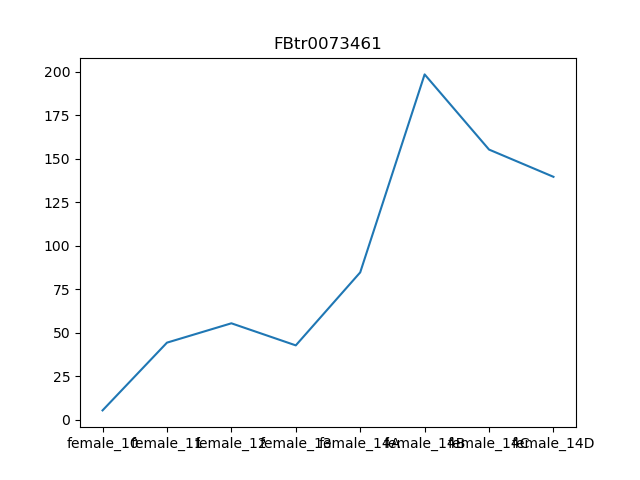
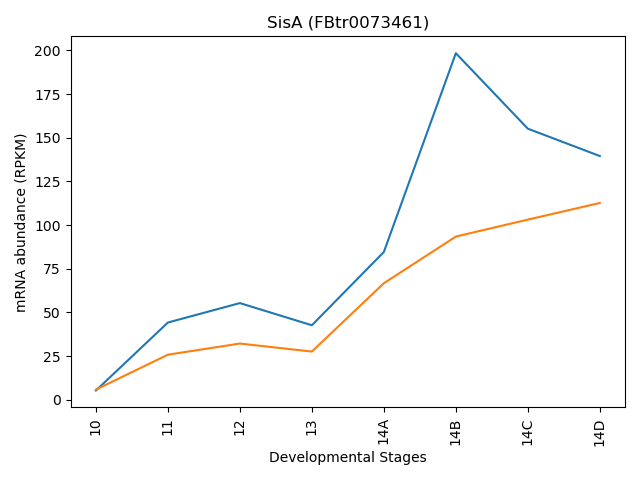
Add answer for exercise 1, step 2

diff --git a/day2-homework/plot-sisA.py b/day2-homework/plot-sisA.py
@@ -19,6 +19,17 @@ print( "data: ", data[0:5, 0:5] )
 for i in range(len(transcripts)):
     if transcripts[i] == 'FBtr0073461':
         row = i
+expr = []
+fExpr = []
+mExpr = []
+
+for i in range(len(samples)):
+    expr.append(data[row,i])
+    if "female" in samples[i]:
+        fExpr.append(expr[i])
+    else:
+        mExpr.append(expr[i])
+
 
 # Find columns with samples of interest
 cols = []
@@ -29,15 +40,25 @@ for i in range(len(samples)):
 # Subset data of interest
 expression = data[row, cols]
 
+devStages = ['10', '11', '12', '13', '14A', '14B', '14C', '14D']
+
 # Prepare data
 x = samples[cols]
 y = expression
 
 # Plot data
 fig, ax = plt.subplots()
-ax.set_title( "FBtr0073461" )
-ax.plot( x, y )
+ax.set_title( "SisA (FBtr0073461)" )
+ax.set_ylabel( "mRNA abundance (RPKM)")
+ax.set_xlabel( "Developmental Stages" )
+
+ax.plot(devStages, fExpr)
+ax.plot(devStages, mExpr)
+
+plt.xticks(rotation = 90)
+plt.tight_layout()
 fig.savefig( "FBtr0073461.png" )
 plt.close( fig )
 plt.show()
+
 
